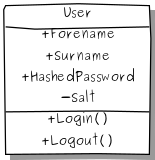
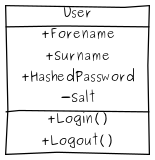
remove shadow from scruffy output by default

Changed region(s): [[0.0, 0.0, 1.0, 1.0], [0.5419, 0.6875, 0.8516, 0.7188], [0.8774, 0.6875, 0.9032, 0.7188]]

diff --git a/suml/scruffy.py b/suml/scruffy.py
@@ -160,7 +160,8 @@ def _transform(root, options, level=0):
         # Skip background rect/polygon
         if child.tag == ns('polygon') and level != 0:
             transformPolygon(child)
-            transformAddShade(root, child)
+            if options.shadow:
+                transformAddShade(root, child)
             transformAddGradient(child)
 
         elif child.tag == ns('path'):
